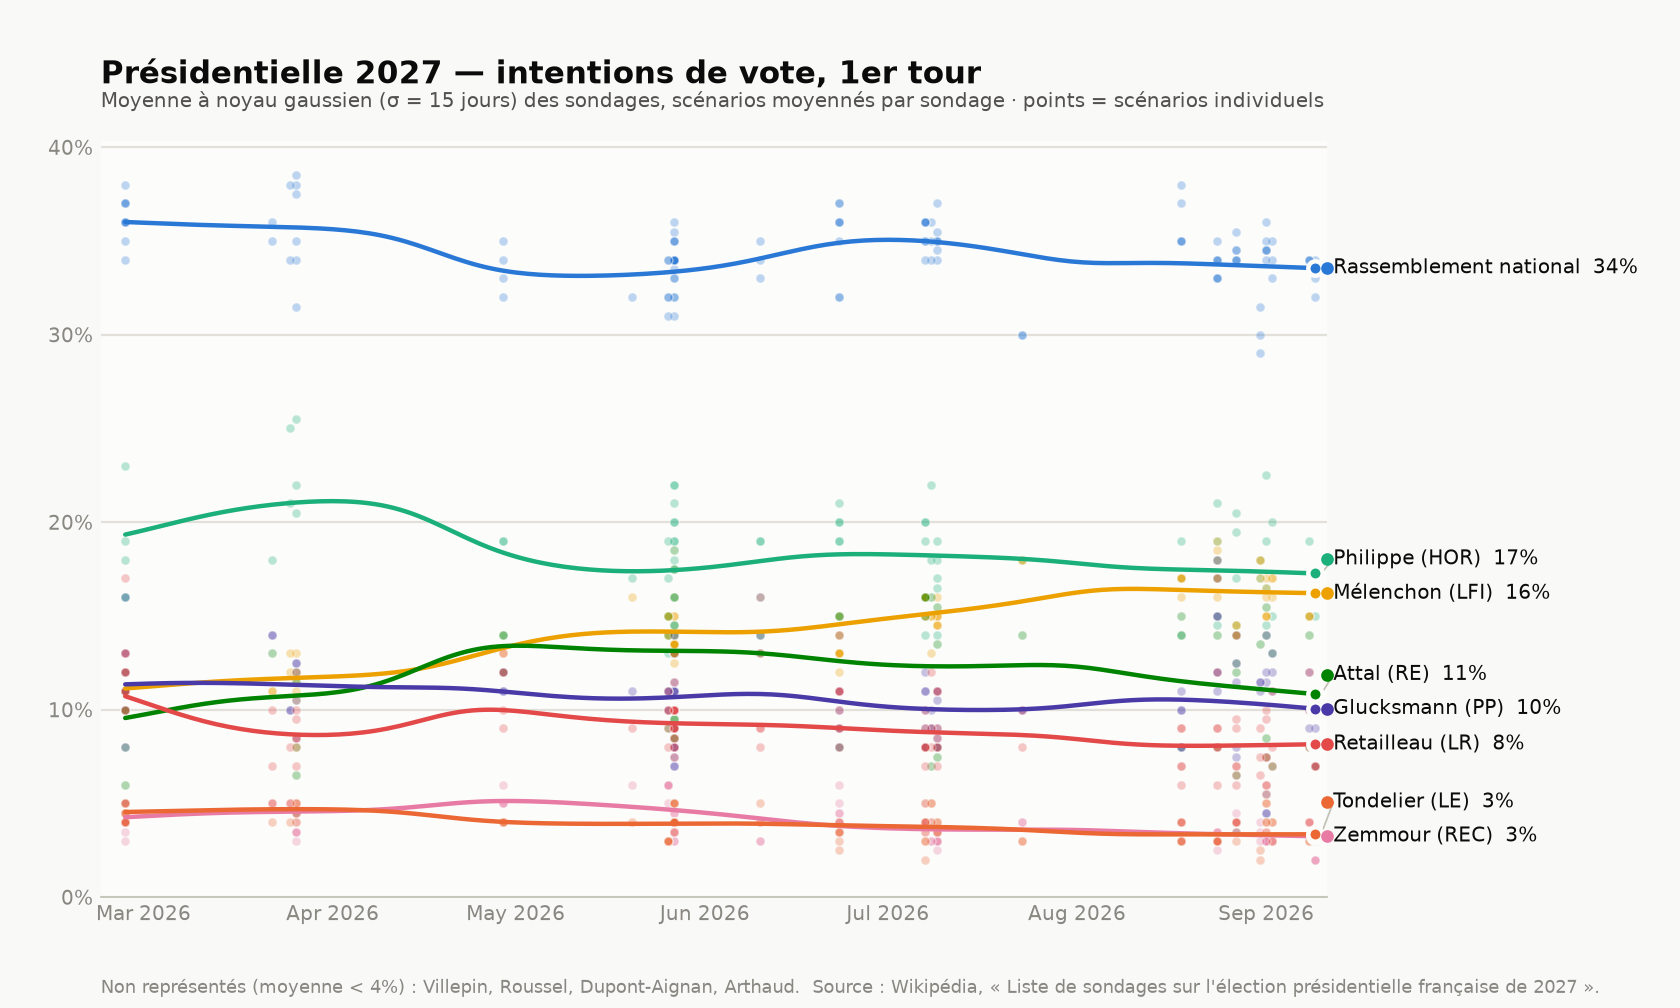
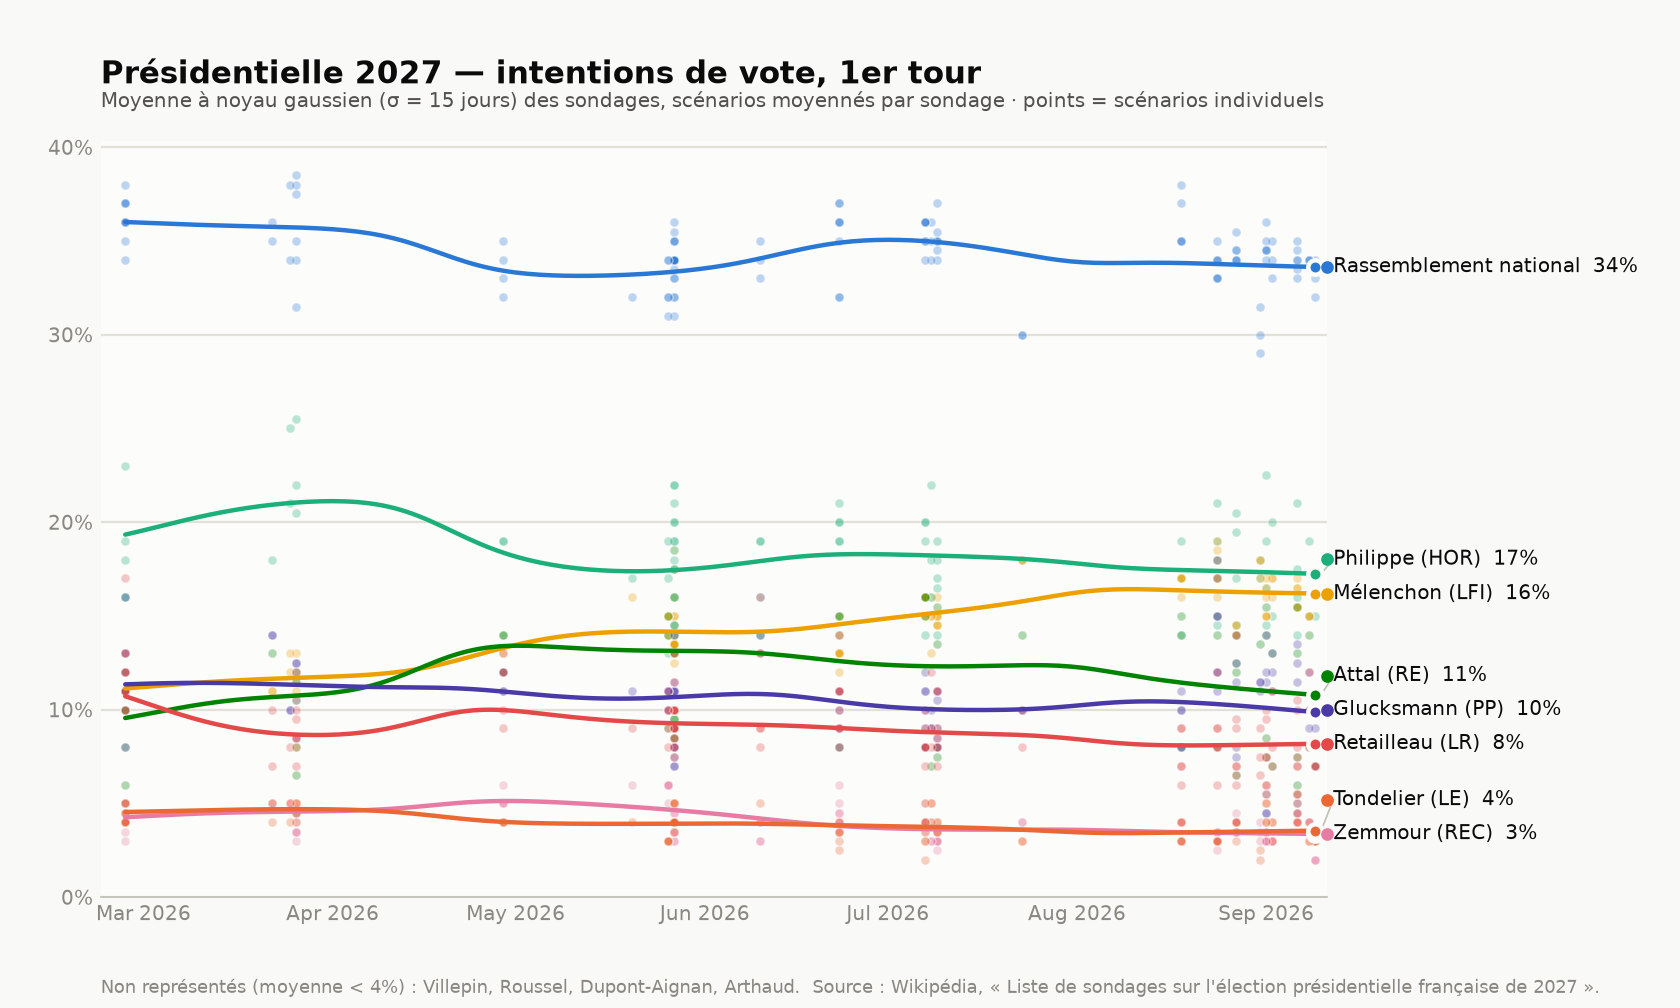
Add Ipsos 3-9 September 2026 poll (first round)
Ipsos/BVA/Le Monde, n=13060, 6 scenarios (3–9 September). Added between
the existing OpinionWay 8–9 September and 2–3 September blocks, matching
Wikipedia's row order. No new candidate columns; second-round match-up
tables unchanged this pull.

diff --git a/README.md b/README.md
@@ -61,7 +61,7 @@ python3 parse_polls.py /tmp/frelec_raw.wiki polls_2027_second_round.csv --second
 First-round voting-intention polls, January–September 2026, scraped from the French
 Wikipedia article
 ["Liste de sondages sur l'élection présidentielle française de 2027"](https://fr.wikipedia.org/wiki/Liste_de_sondages_sur_l%27%C3%A9lection_pr%C3%A9sidentielle_fran%C3%A7aise_de_2027)
-(pulled 2026-09-12).
+(pulled 2026-09-14).
 
 Starting with the 7–8 July 2026 polls (Wikipedia's "Second semestre 2026"
 sub-table), the table switched the RN column from a hypothetical "candidate"
@@ -104,7 +104,7 @@ included in this CSV — ask if you want those pulled too.
 
 Second-round (runoff) hypothetical match-up polls, January 2024 – September 2026,
 scraped from the same Wikipedia page's "Sondages concernant le second tour"
-section (pulled 2026-09-12). Each subsection there ("Hypothèse X – Y") polls
+section (pulled 2026-09-14). Each subsection there ("Hypothèse X – Y") polls
 one specific pairing — Attal, Mélenchon, Philippe, Glucksmann and Retailleau
 each against the RN candidate (Bardella through early 2026, Le Pen from her
 2026-07-07 candidacy onward), plus a single early Ruffin–Le Pen poll and, from
